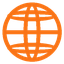
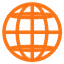
иконкаязык2

diff --git a/new-analysis.html b/new-analysis.html
@@ -229,44 +229,46 @@
                       <span data-i18n="common:nav.try">Попробовать</span>
                     </div>
                   </a>
-                  <!-- Language switcher (globe icon + dropdown) -->
-                  <div class="lang-switcher">
-                    <button
-                      id="langSwitcherBtn"
-                      type="button"
-                      class="lang-switcher__button"
-                      aria-haspopup="listbox"
-                      aria-expanded="false"
-                      aria-label="Change interface language"
-                      data-i18n-aria-label="common:lang_switcher.button_aria"
-                      title="Interface language"
-                      data-i18n-title="common:lang_switcher.button_title"
-                    >
-                      <img
-                        src="/images/globe-lang.png"
-                        srcset="/images/globe-lang.png 1x, /images/[email redacted] 2x"
-                        alt="Language"
-                        data-i18n-alt="common:lang_switcher.globe_alt"
-                        class="lang-switcher__globe"
-                        width="26"
-                        height="26"
-                      />
-                    </button>
-                    <ul id="langSwitcherMenu" class="lang-switcher__menu" role="listbox" hidden>
-                      <li role="option">
-                        <button type="button" class="lang-switcher__item" data-lang="en">
-                          <span data-i18n="common:lang_switcher.option_en">English</span>
-                        </button>
-                      </li>
-                      <li role="option">
-                        <button type="button" class="lang-switcher__item" data-lang="ru">
-                          <span data-i18n="common:lang_switcher.option_ru">Русский</span>
-                        </button>
-                      </li>
-                    </ul>
-                  </div>
                 </div>
-               
+
+              </div>
+              <!-- Language switcher (globe icon + dropdown)
+                   Positioned absolutely inside .navigation so it's visible even when
+                   .navigation__right is hidden (new-analysis.html hides it). -->
+              <div class="lang-switcher">
+                <button
+                  id="langSwitcherBtn"
+                  type="button"
+                  class="lang-switcher__button"
+                  aria-haspopup="listbox"
+                  aria-expanded="false"
+                  aria-label="Change interface language"
+                  data-i18n-aria-label="common:lang_switcher.button_aria"
+                  title="Interface language"
+                  data-i18n-title="common:lang_switcher.button_title"
+                >
+                  <img
+                    src="/images/globe-lang.png"
+                    srcset="/images/globe-lang.png 1x, /images/[email redacted] 2x"
+                    alt="Language"
+                    data-i18n-alt="common:lang_switcher.globe_alt"
+                    class="lang-switcher__globe"
+                    width="26"
+                    height="26"
+                  />
+                </button>
+                <ul id="langSwitcherMenu" class="lang-switcher__menu" role="listbox" hidden>
+                  <li role="option">
+                    <button type="button" class="lang-switcher__item" data-lang="en">
+                      <span data-i18n="common:lang_switcher.option_en">English</span>
+                    </button>
+                  </li>
+                  <li role="option">
+                    <button type="button" class="lang-switcher__item" data-lang="ru">
+                      <span data-i18n="common:lang_switcher.option_ru">Русский</span>
+                    </button>
+                  </li>
+                </ul>
               </div>
             </nav>
             <div id="navOverlay" class="navigation__overlay">

diff --git a/components/navigation.html b/components/navigation.html
@@ -131,42 +131,6 @@
                   <span>Попробовать</span>
                 </div>
               </a>
-              <!-- Language switcher (globe icon + dropdown) -->
-              <div class="lang-switcher">
-                <button
-                  id="langSwitcherBtn"
-                  type="button"
-                  class="lang-switcher__button"
-                  aria-haspopup="listbox"
-                  aria-expanded="false"
-                  aria-label="Change interface language"
-                  data-i18n-aria-label="common:lang_switcher.button_aria"
-                  title="Interface language"
-                  data-i18n-title="common:lang_switcher.button_title"
-                >
-                  <img
-                    src="/images/globe-lang.png"
-                    srcset="/images/globe-lang.png 1x, /images/[email redacted] 2x"
-                    alt="Language"
-                    data-i18n-alt="common:lang_switcher.globe_alt"
-                    class="lang-switcher__globe"
-                    width="26"
-                    height="26"
-                  />
-                </button>
-                <ul id="langSwitcherMenu" class="lang-switcher__menu" role="listbox" hidden>
-                  <li role="option">
-                    <button type="button" class="lang-switcher__item" data-lang="en">
-                      <span data-i18n="common:lang_switcher.option_en">English</span>
-                    </button>
-                  </li>
-                  <li role="option">
-                    <button type="button" class="lang-switcher__item" data-lang="ru">
-                      <span data-i18n="common:lang_switcher.option_ru">Русский</span>
-                    </button>
-                  </li>
-                </ul>
-              </div>
             </div>
             <button
               id="navToggle"
@@ -190,6 +154,44 @@
                 ></path>
               </svg>
             </button>
+          </div>
+          <!-- Language switcher (globe icon + dropdown).
+               Direct child of .navigation so position:absolute pins it to
+               the right edge regardless of whether .navigation__right is shown. -->
+          <div class="lang-switcher">
+            <button
+              id="langSwitcherBtn"
+              type="button"
+              class="lang-switcher__button"
+              aria-haspopup="listbox"
+              aria-expanded="false"
+              aria-label="Change interface language"
+              data-i18n-aria-label="common:lang_switcher.button_aria"
+              title="Interface language"
+              data-i18n-title="common:lang_switcher.button_title"
+            >
+              <img
+                src="/images/globe-lang.png"
+                srcset="/images/globe-lang.png 1x, /images/[email redacted] 2x"
+                alt="Language"
+                data-i18n-alt="common:lang_switcher.globe_alt"
+                class="lang-switcher__globe"
+                width="26"
+                height="26"
+              />
+            </button>
+            <ul id="langSwitcherMenu" class="lang-switcher__menu" role="listbox" hidden>
+              <li role="option">
+                <button type="button" class="lang-switcher__item" data-lang="en">
+                  <span data-i18n="common:lang_switcher.option_en">English</span>
+                </button>
+              </li>
+              <li role="option">
+                <button type="button" class="lang-switcher__item" data-lang="ru">
+                  <span data-i18n="common:lang_switcher.option_ru">Русский</span>
+                </button>
+              </li>
+            </ul>
           </div>
         </nav>
         <div id="navOverlay" class="navigation__overlay">

diff --git a/index.html b/index.html
@@ -118,42 +118,6 @@
                       <span>Попробовать</span>
                     </div>
                   </a>
-                  <!-- Language switcher (globe icon + dropdown) -->
-                  <div class="lang-switcher">
-                    <button
-                      id="langSwitcherBtn"
-                      type="button"
-                      class="lang-switcher__button"
-                      aria-haspopup="listbox"
-                      aria-expanded="false"
-                      aria-label="Change interface language"
-                      data-i18n-aria-label="common:lang_switcher.button_aria"
-                      title="Interface language"
-                      data-i18n-title="common:lang_switcher.button_title"
-                    >
-                      <img
-                        src="/images/globe-lang.png"
-                        srcset="/images/globe-lang.png 1x, /images/[email redacted] 2x"
-                        alt="Language"
-                        data-i18n-alt="common:lang_switcher.globe_alt"
-                        class="lang-switcher__globe"
-                        width="26"
-                        height="26"
-                      />
-                    </button>
-                    <ul id="langSwitcherMenu" class="lang-switcher__menu" role="listbox" hidden>
-                      <li role="option">
-                        <button type="button" class="lang-switcher__item" data-lang="en">
-                          <span data-i18n="common:lang_switcher.option_en">English</span>
-                        </button>
-                      </li>
-                      <li role="option">
-                        <button type="button" class="lang-switcher__item" data-lang="ru">
-                          <span data-i18n="common:lang_switcher.option_ru">Русский</span>
-                        </button>
-                      </li>
-                    </ul>
-                  </div>
                 </div>
                 <button
                   id="navToggle"
@@ -177,6 +141,44 @@
                     ></path>
                   </svg>
                 </button>
+              </div>
+              <!-- Language switcher (globe icon + dropdown)
+                   Direct child of .navigation so it's positioned absolutely
+                   on every page (works even when .navigation__right is hidden). -->
+              <div class="lang-switcher">
+                <button
+                  id="langSwitcherBtn"
+                  type="button"
+                  class="lang-switcher__button"
+                  aria-haspopup="listbox"
+                  aria-expanded="false"
+                  aria-label="Change interface language"
+                  data-i18n-aria-label="common:lang_switcher.button_aria"
+                  title="Interface language"
+                  data-i18n-title="common:lang_switcher.button_title"
+                >
+                  <img
+                    src="/images/globe-lang.png"
+                    srcset="/images/globe-lang.png 1x, /images/[email redacted] 2x"
+                    alt="Language"
+                    data-i18n-alt="common:lang_switcher.globe_alt"
+                    class="lang-switcher__globe"
+                    width="26"
+                    height="26"
+                  />
+                </button>
+                <ul id="langSwitcherMenu" class="lang-switcher__menu" role="listbox" hidden>
+                  <li role="option">
+                    <button type="button" class="lang-switcher__item" data-lang="en">
+                      <span data-i18n="common:lang_switcher.option_en">English</span>
+                    </button>
+                  </li>
+                  <li role="option">
+                    <button type="button" class="lang-switcher__item" data-lang="ru">
+                      <span data-i18n="common:lang_switcher.option_ru">Русский</span>
+                    </button>
+                  </li>
+                </ul>
               </div>
             </nav>
             <div id="navOverlay" class="navigation__overlay">

diff --git a/new-analysis.css b/new-analysis.css
@@ -620,6 +620,21 @@ body.user-not-auth #sidebarUserArea .auth-open-btn {
   display: none !important;
 }
 
+/* Переключатель языка: остаётся кликабельным несмотря на pointer-events:none
+   у самой .navigation, и прижат к правому краю фиксированной шапки. */
+.navigation .lang-switcher,
+.navigation .lang-switcher * {
+  pointer-events: auto !important;
+}
+
+.navigation .lang-switcher {
+  position: absolute !important;
+  right: 14px !important;
+  top: 50% !important;
+  transform: translateY(-50%) !important;
+  z-index: 210 !important;
+}
+
 /* Уменьшаем логотип */
 .navigation__logo-text {
   font-size: 18px !important;

diff --git a/style.css b/style.css
@@ -2020,11 +2020,20 @@
 }
 
 /* ---------- Header language switcher (globe icon + dropdown) ---------- */
+/* .lang-switcher is a direct child of .navigation (sibling of .navigation__container).
+   It's absolutely positioned so it shows even when .navigation__right is hidden
+   (new-analysis.html applies display:none !important to .navigation__right) and so
+   it doesn't disturb the centered logo. pointer-events:auto restores clickability
+   on pages where .navigation has pointer-events:none (e.g. new-analysis.css). */
 .lang-switcher {
-  position: relative;
-  margin-left: auto;
+  position: absolute;
+  right: 14px;
+  top: 50%;
+  transform: translateY(-50%);
   display: flex;
   align-items: center;
+  pointer-events: auto;
+  z-index: 10;
 }
 
 .lang-switcher__button {

diff --git a/components/navigation.css b/components/navigation.css
@@ -35,12 +35,16 @@
 }
 
 /* ---------- Header language switcher (globe icon + dropdown) ---------- */
-
+/* Прямой потомок .navigation, position:absolute прижимает к правому краю шапки. */
 .lang-switcher {
-  position: relative;
-  margin-left: auto;      /* прижимаем к правому краю полосы */
+  position: absolute;
+  right: 14px;
+  top: 50%;
+  transform: translateY(-50%);
   display: flex;
   align-items: center;
+  pointer-events: auto;
+  z-index: 10;
 }
 
 .lang-switcher__button {